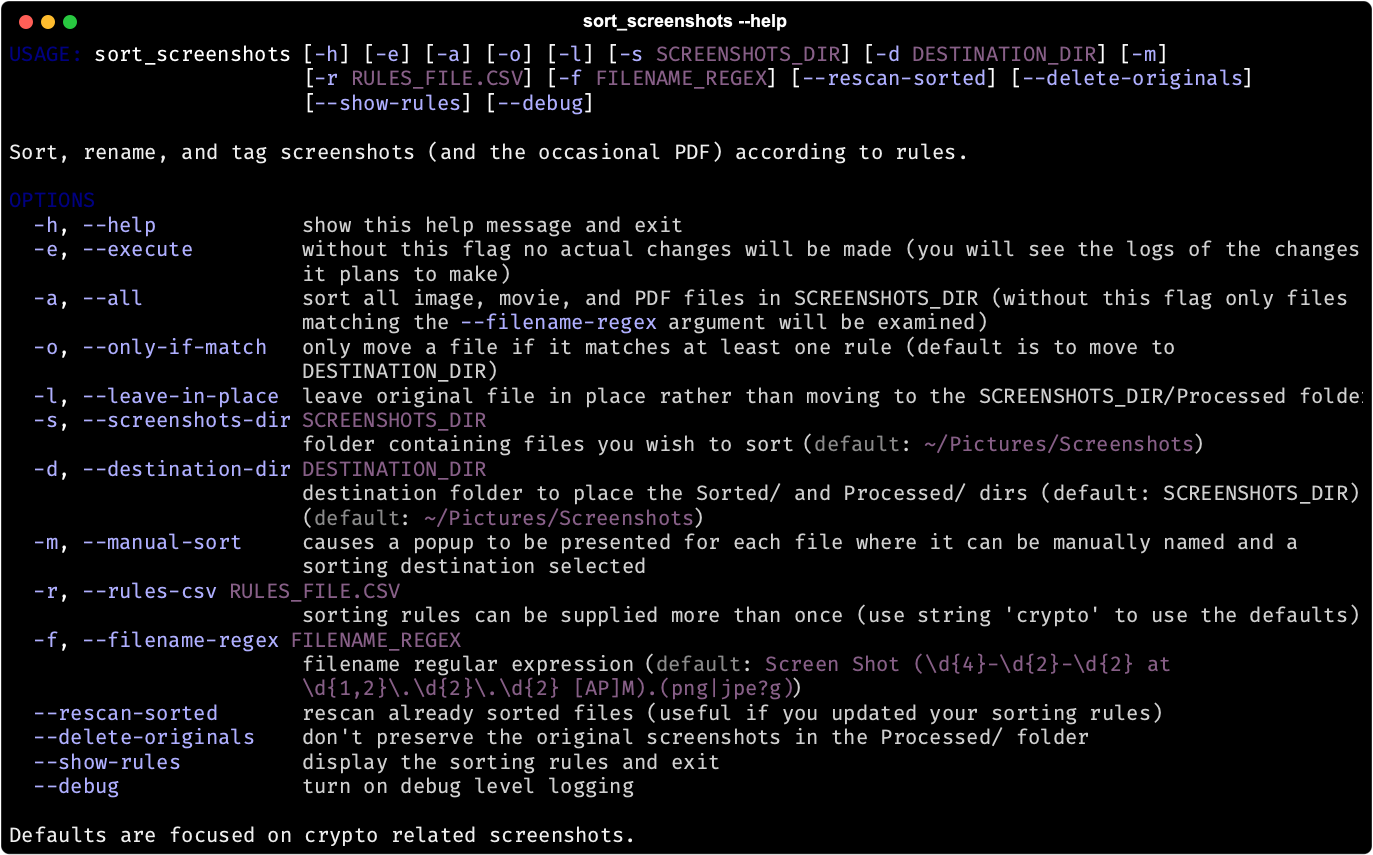
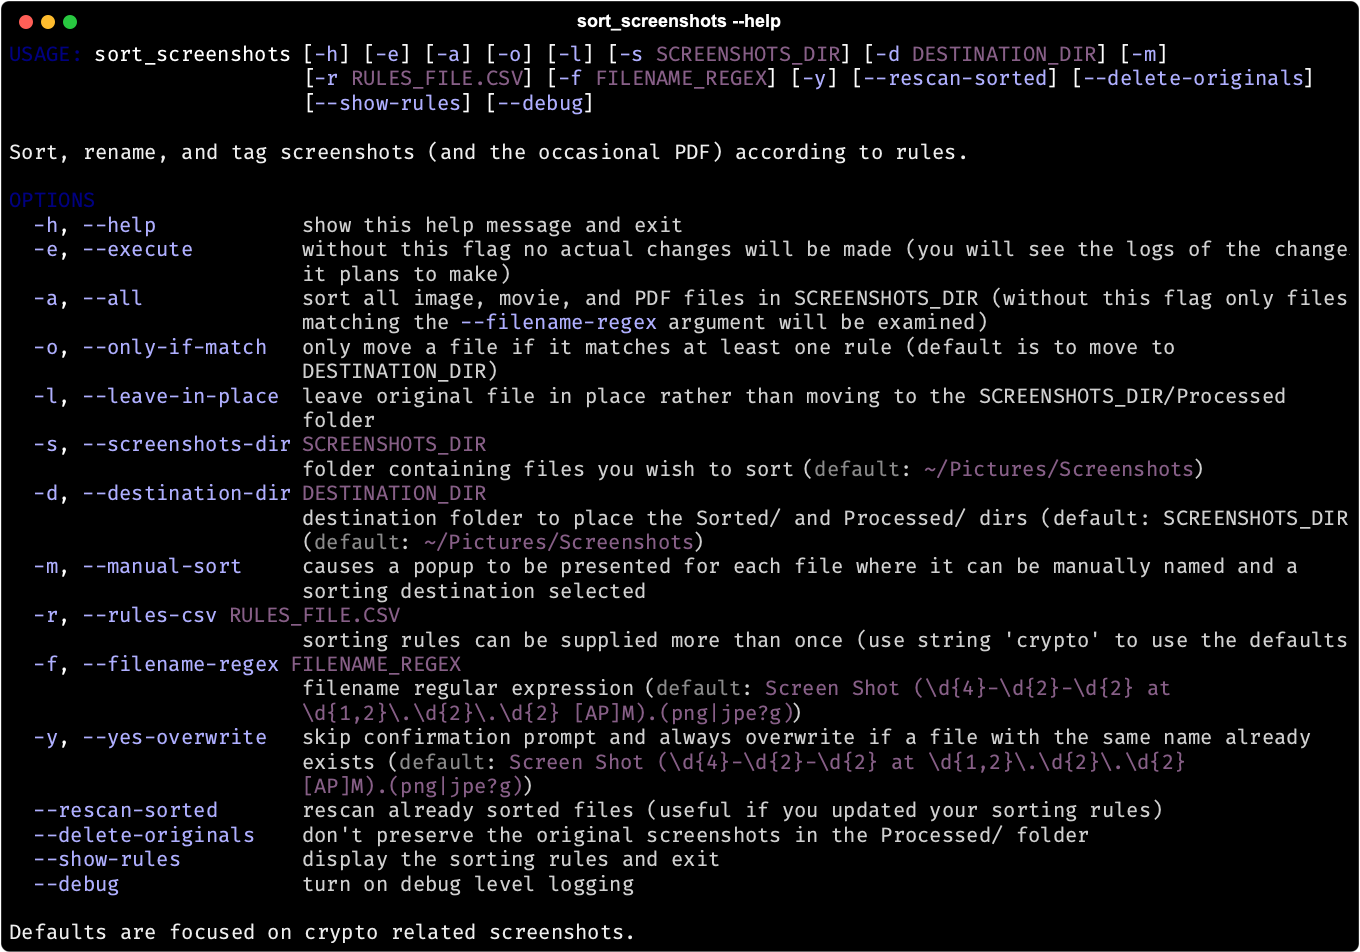
--yes-overwrite option

Changed region(s): [[0.0, 0.0, 0.9882, 0.9427], [0.0309, 0.8211, 0.1853, 0.9427], [0.0, 0.9731, 0.4632, 1.0]]

diff --git a/clown_sort/config.py b/clown_sort/config.py
@@ -42,6 +42,7 @@ class Config:
     screenshots_only: bool = True
     delete_originals: bool = False
     rescan_sorted: bool = False
+    yes_overwrite: bool = False
     sort_rules: List[SortRule] = []
     filename_regex: re.Pattern
 
@@ -70,6 +71,7 @@ class Config:
         Config.only_if_match = True if args.only_if_match else False
         Config.delete_originals = True if args.delete_originals else False
         Config.rescan_sorted = True if args.rescan_sorted else False
+        Config.yes_overwrite = True if args.yes_overwrite else False
 
         if Config.leave_in_place and Config.delete_originals:
             Console().print("--leave-in-place and --delete-originals are mutually exclusive.", style='red')

diff --git a/clown_sort/util/argument_parser.py b/clown_sort/util/argument_parser.py
@@ -54,6 +54,10 @@ parser.add_argument('-f', '--filename-regex',
                     help='filename regular expression',
                     default=DEFAULT_FILENAME_REGEX.pattern)
 
+parser.add_argument('-y', '--yes-overwrite', action='store_true',
+                    help='skip confirmation prompt and always overwrite if a file with the same name already exists',
+                    default=DEFAULT_FILENAME_REGEX.pattern)
+
 parser.add_argument('--rescan-sorted', action='store_true',
                     help="rescan already sorted files (useful if you updated your sorting rules)")
 

diff --git a/clown_sort/files/sortable_file.py b/clown_sort/files/sortable_file.py
@@ -77,7 +77,7 @@ class SortableFile:
             if destination_path.exists():
                 console.print(f"\nFile '{destination_path.name}' already exists in '{folder}/'!", style='blink')
 
-                if not Confirm.ask(f"Overwrite?"):
+                if not (Config.yes_overwrite or Confirm.ask(f"Overwrite?")):
                     console.print("Skipping...")
                     continue
 

diff --git a/README.md b/README.md
@@ -86,6 +86,8 @@ While every effort has been made to use Python's cross platform `Pathlib` module
 ### Help Screen
 ![](doc/sort_screenshots_help.png)
 
+(In my personal usuage I tend to run the tool with the `--all` and `--only-if-match` options.)
+
 ### Custom Sorting Rules
 The default is to sort cryptocurrency related content but you can define your own CSV of rules with two columns `folder` and `regex`. The value in `folder` specifies the subdirectory to sort into and `regex` is the pattern to match against. See [the default crypto related configuration](clown_sort/sorting_rules/crypto.csv) for an example. An explanation of regular expressions is beyond the scope of this README but many resources are available to help. If you're not good at regexes just remember that any alphanumeric string is a regex that will match that string. [pythex](http://pythex.org/) is a great website for testing your regexes.
 

diff --git a/CHANGELOG.md b/CHANGELOG.md
@@ -1,5 +1,5 @@
 # NEXT RELEASE
-* Ask for confirmation before overwriting files
+* Ask for confirmation before overwriting files (`--yes-overwrite` option to skip the check)
 * Check if image's extracted text is already in the filename (important if rescanning)
 
 ## 1.2.0
